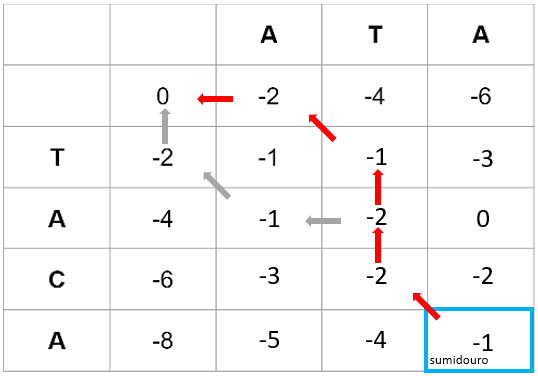
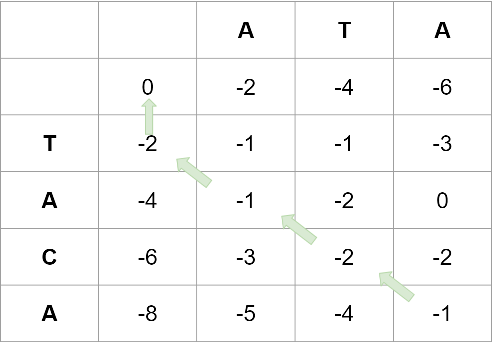
ajustes finais

diff --git a/src/exemplo.md b/src/exemplo.md
@@ -230,7 +230,7 @@ Partindo do sumidouro temos o seguinte caso:
 
 ![](matriz_finalizada_sumidouro.png)
 
-Repare que nesse caso, o caminho seria voltando pela diagonal, pois os nucleotídeos A e A coincidem. O resultado seria:
+Repare que nesse caso, o caminho seria voltando pela diagonal, pois a unica seta que chega no sumidouro vem da diagonal. Desta forma o resultado seria:
 
 ![](matriz_finalizada_sumidouro_resolucao.png)
 
